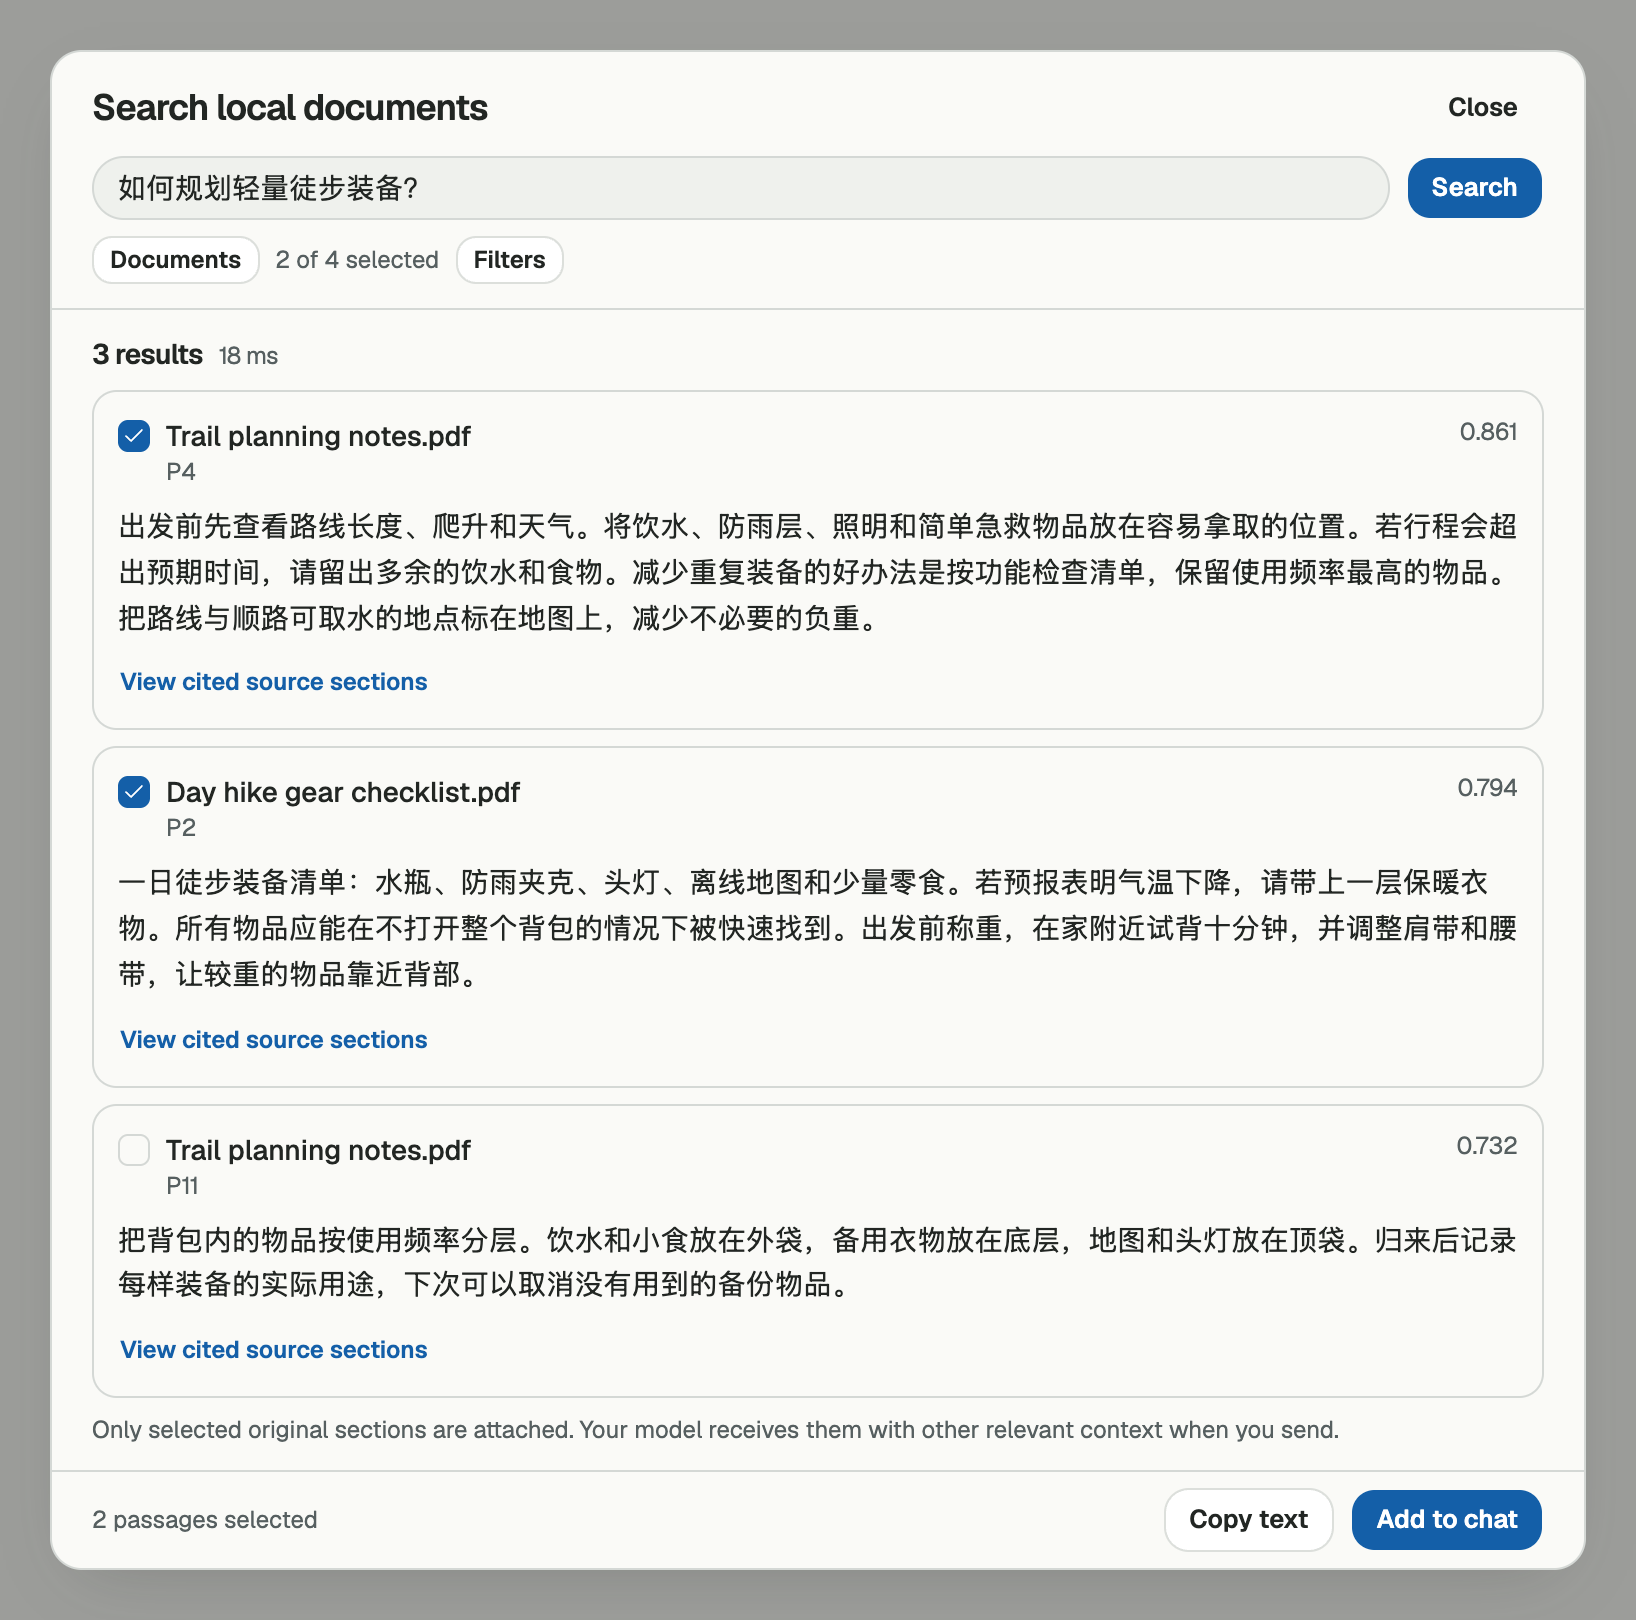
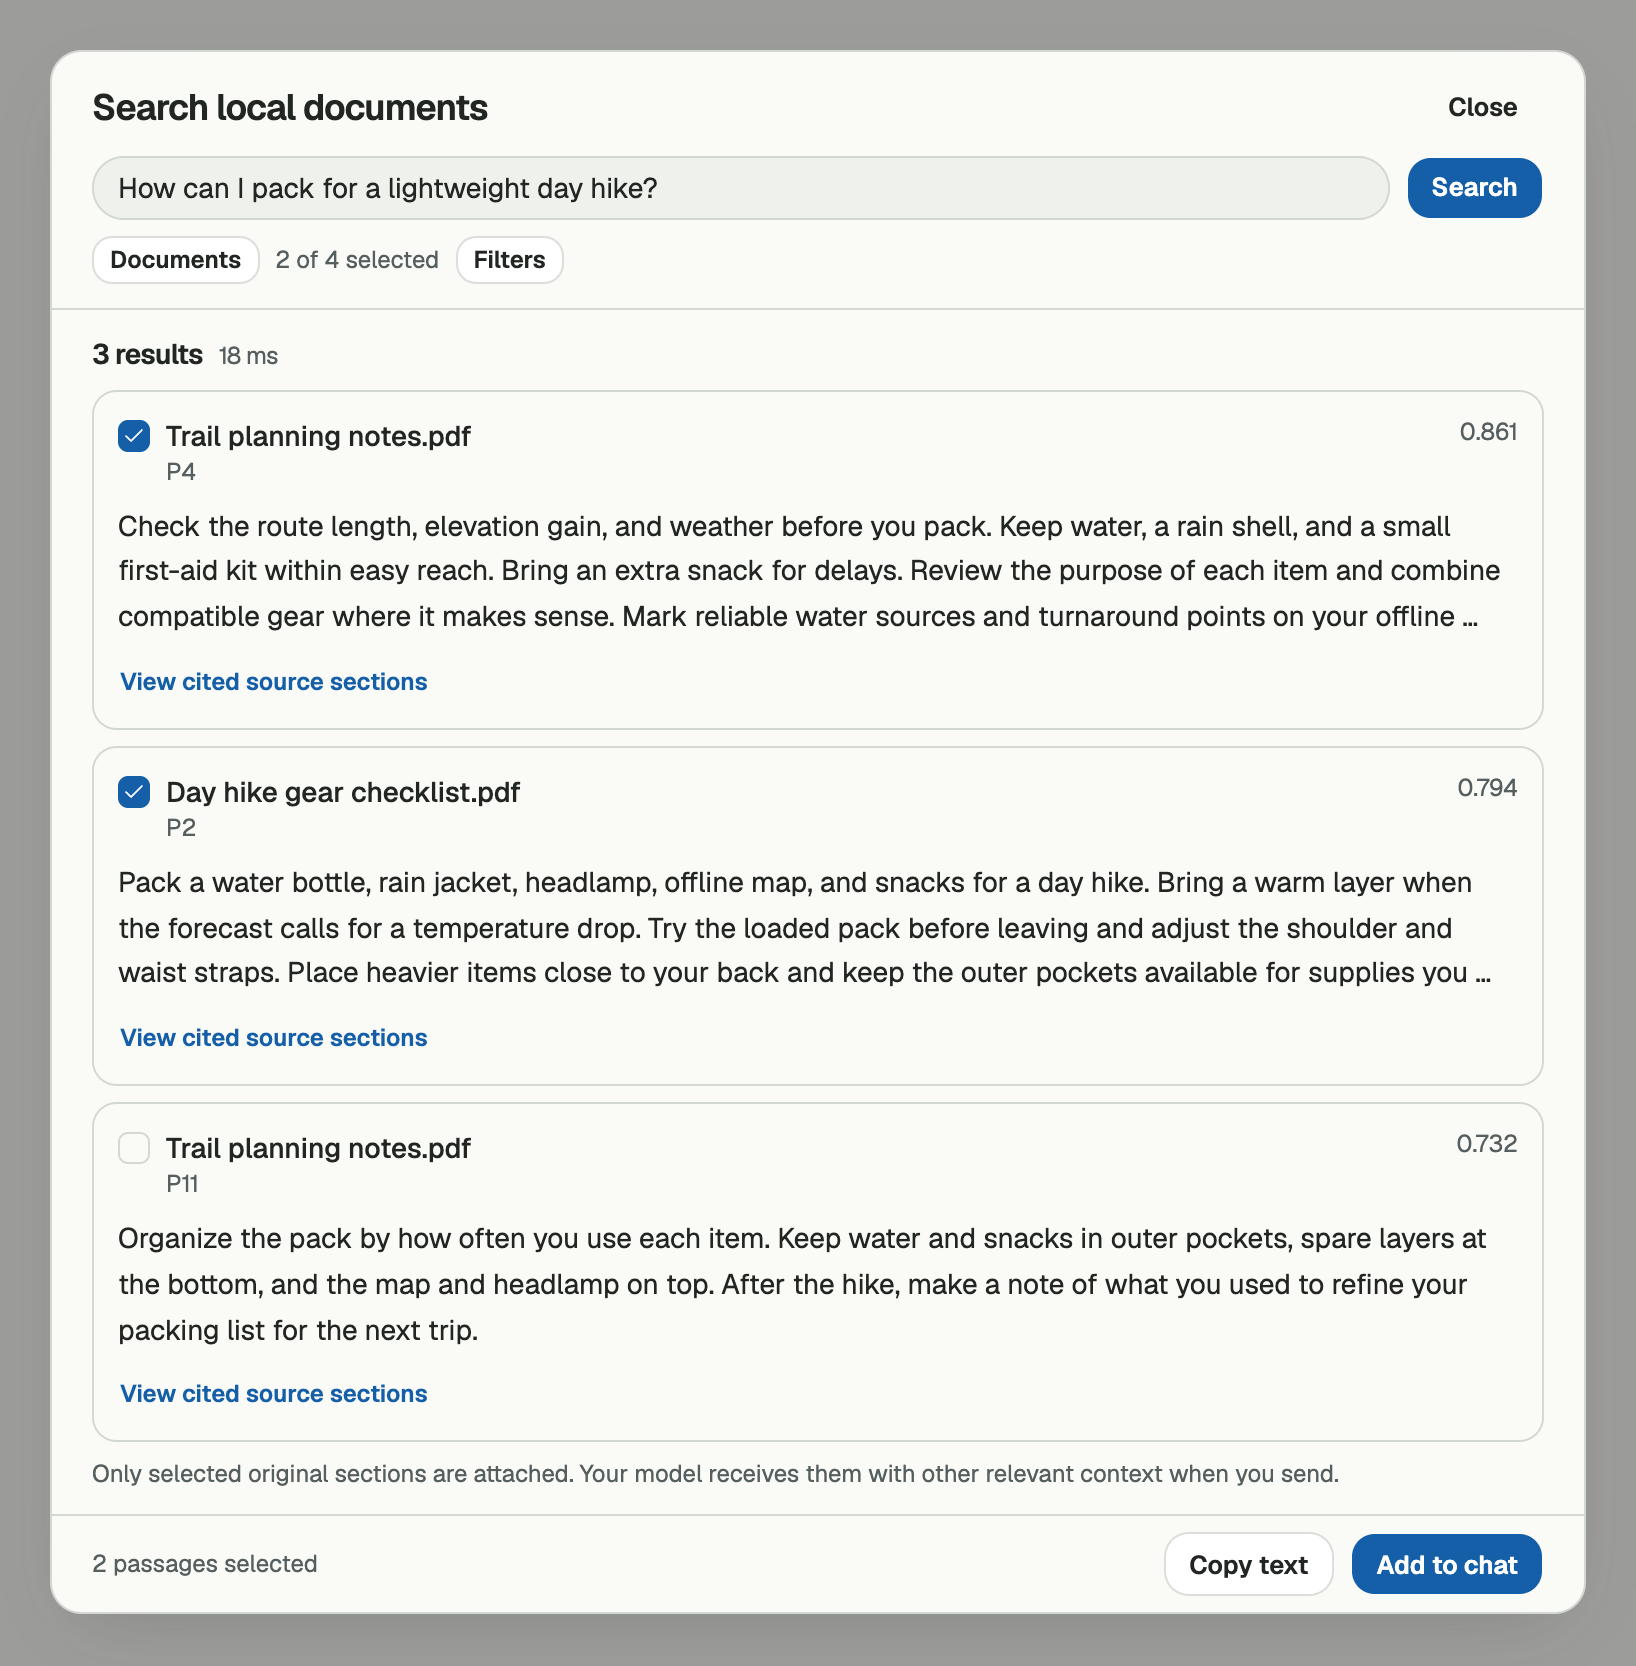
Use an English document search screenshot

diff --git a/docs/images/README.md b/docs/images/README.md
@@ -6,7 +6,7 @@
 | `cove-quick-panel-answer.png` | The same AppKit and WebKit fixture at 1240 × 1304. The window grows to show the synthetic prompt, reply, and browser handoff. |
 | `local-search-filter-desktop.png` | Local capability recovery source build, 2026-11-23, 1440 × 900: explicit document scope and user-selected similarity controls in a disposable production-browser fixture. |
 | `local-search-filter-mobile-dark.png` | The same fixture at 390 × 844 in dark mode; the document dialog scrolls within the viewport. |
-| `local-document-search-results.png` | Local document search source build, 2026-11-24, 1636 × 1620. A disposable browser fixture shows compact synthetic Chinese PDF excerpts, page references, and the fixed selection actions. |
+| `local-document-search-results.png` | Local document search source build, 2026-11-24, 1636 × 1666. A disposable browser fixture shows compact English PDF excerpts from synthetic documents, page references, and the fixed selection actions. |
 | `model-comparison.webp` | The actual Cove 0.1.0-beta.3 Chat Surface, captured at a 1440 × 1080 viewport from the CI-built Local Service at release commit `23503cd`. Two simulated models reply to a synthetic prompt, with Atlas selected for the next turn. |
 | `focus-mode.webp` | The actual Focus layout and timeline preview from UI commit `22441b6`, included in Beta 3. Reused from the product website's Beta 3 capture set. |
 | `answer-workbench.png` | Unreleased source build, 2026-11-18, 1440 × 900: review a proposed selected-passage revision before applying it to a Working Draft. |
